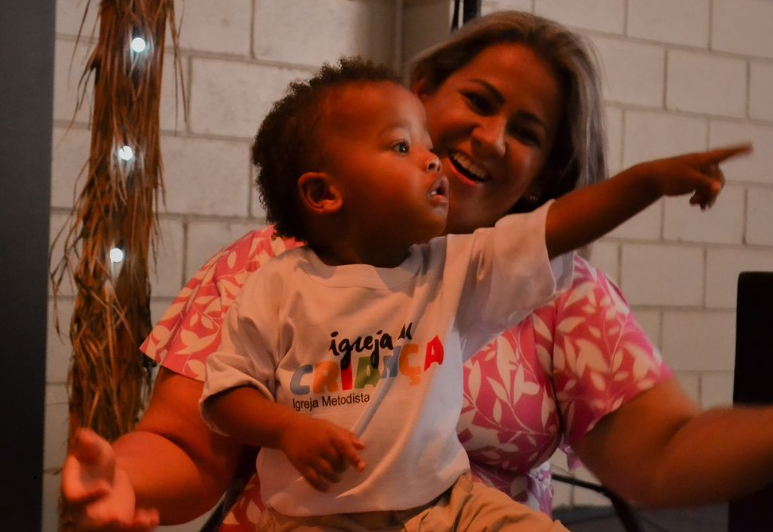
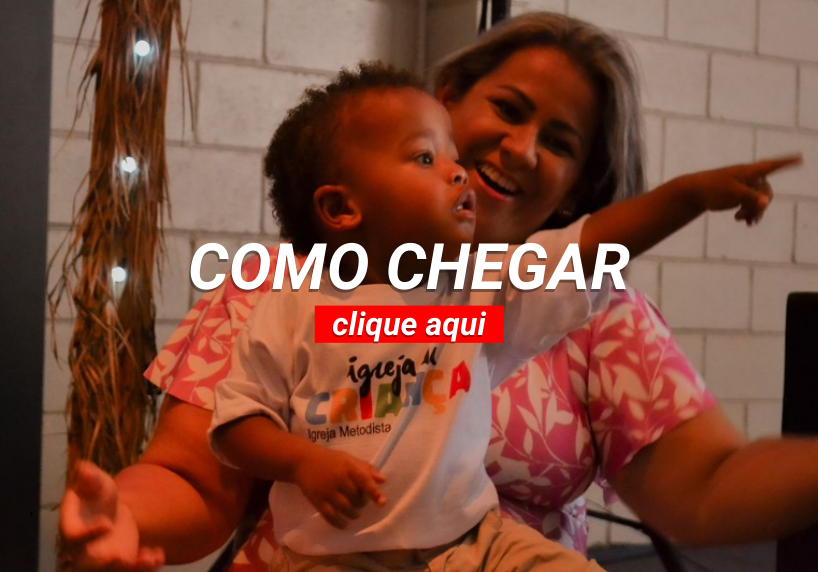
#feature 'adicionado lista de + links clicaveis'

diff --git a/metodista_app/lib/components/schedules_list.dart b/metodista_app/lib/components/schedules_list.dart
@@ -1,5 +1,10 @@
 import 'package:flutter/material.dart';
+import 'package:url_launcher/url_launcher.dart';
 
+final Uri _urlMaps = Uri.parse('https://goo.gl/maps/amwPCPCKP7KUAUJVA');
+final Uri _urlCultos = Uri.parse('https://www.youtube.com/@IMCamposEliseos/streams');
+final Uri _urlPower = Uri.parse('https://www.instagram.com/power.jvs');
+final Uri _urlKids = Uri.parse('https://www.instagram.com/igrejadacrianca.metodista/');
 class SchedulesList extends StatelessWidget {
   const SchedulesList({super.key});
 
@@ -9,41 +14,77 @@ class SchedulesList extends StatelessWidget {
       child: ListView(
         shrinkWrap: true,
         children: [
-          Container(
-            height: 200,
-            color: Colors.blue,
-            child: Image.asset(
-              'assets/images/cultos.png',
-              fit: BoxFit.cover,
+          GestureDetector(
+            onTap: () => {_LaunchCultosUrl()},
+            child: Container(
+              height: 200,
+              color: Colors.blue,
+              child: Image.asset(
+                'assets/images/cultos.png',
+                fit: BoxFit.cover,
+              ),
             ),
           ),
-          Container(
-            height: 200,
-            color: Colors.blue,
-            child: Image.asset(
-              'assets/images/juventude.jpeg',
-              fit: BoxFit.cover,
+          GestureDetector(
+            onTap: () => {_LaunchPowerUrl()},
+            child: Container(
+              height: 200,
+              color: Colors.blue,
+              child: Image.asset(
+                'assets/images/juventude.png',
+                fit: BoxFit.cover,
+              ),
             ),
           ),
-          Container(
-            height: 200,
-            color: Colors.blue,
-            child: Image.asset(
-              'assets/images/kids.png',
-              fit: BoxFit.cover,
+          GestureDetector(
+            onTap: () => {_LaunchKidsUrl()},
+            child: Container(
+              height: 200,
+              color: Colors.blue,
+              child: Image.asset(
+                'assets/images/kids.png',
+                fit: BoxFit.cover,
+              ),
             ),
           ),
-          Container(
-            height: 200,
-            color: Colors.blue,
-            child: Image.asset(
-              'assets/images/bebe-apontando.png',
-              fit: BoxFit.cover,
+          GestureDetector(
+            onTap: () => {_LaunchMapsUrl()},
+            child: Container(
+              height: 200,
+              color: Colors.blue,
+              child: Image.asset(
+                'assets/images/bebe-apontando.png',
+                fit: BoxFit.cover,
+              ),
             ),
           ),
         ],
         scrollDirection: Axis.vertical,
       ),
     );
+  }
+}
+
+Future<void> _LaunchMapsUrl() async {
+  if (!await launchUrl(_urlMaps)) {
+    throw Exception('Não é possível abrir $_urlMaps');
+  }
+}
+
+Future<void> _LaunchCultosUrl() async {
+  if (!await launchUrl(_urlCultos)) {
+    throw Exception('Não é possível abrir $_urlCultos');
+  }
+}
+
+Future<void> _LaunchPowerUrl() async {
+  if (!await launchUrl(_urlPower)) {
+    throw Exception('Não é possível abrir $_urlPower');
+  }
+}
+
+Future<void> _LaunchKidsUrl() async {
+  if (!await launchUrl(_urlKids)) {
+    throw Exception('Não é possível abrir $_urlKids');
   }
 }

diff --git a/metodista_app/lib/main.dart b/metodista_app/lib/main.dart
@@ -1,6 +1,7 @@
 import 'dart:ui';
 import 'package:flutter/material.dart';
 import 'package:metodista_app/components/schedules_list.dart';
+import 'package:url_launcher/url_launcher.dart';
 
 void main() => runApp(MetodistaApp());
 
@@ -103,6 +104,7 @@ class HomePage extends StatelessWidget {
       ),
       body: SingleChildScrollView(
         child: Column(
+          mainAxisAlignment: MainAxisAlignment.center,
           crossAxisAlignment: CrossAxisAlignment.stretch,
           children: [
             Container(

diff --git a/metodista_app/macos/Flutter/GeneratedPluginRegistrant.swift b/metodista_app/macos/Flutter/GeneratedPluginRegistrant.swift
@@ -5,6 +5,8 @@
 import FlutterMacOS
 import Foundation
 
+import url_launcher_macos
 
 func RegisterGeneratedPlugins(registry: FlutterPluginRegistry) {
+  UrlLauncherPlugin.register(with: registry.registrar(forPlugin: "UrlLauncherPlugin"))
 }

diff --git a/metodista_app/linux/flutter/generated_plugin_registrant.cc b/metodista_app/linux/flutter/generated_plugin_registrant.cc
@@ -6,6 +6,10 @@
 
 #include "generated_plugin_registrant.h"
 
+#include <url_launcher_linux/url_launcher_plugin.h>
 
 void fl_register_plugins(FlPluginRegistry* registry) {
+  g_autoptr(FlPluginRegistrar) url_launcher_linux_registrar =
+      fl_plugin_registry_get_registrar_for_plugin(registry, "UrlLauncherPlugin");
+  url_launcher_plugin_register_with_registrar(url_launcher_linux_registrar);
 }

diff --git a/metodista_app/windows/flutter/generated_plugin_registrant.cc b/metodista_app/windows/flutter/generated_plugin_registrant.cc
@@ -6,6 +6,9 @@
 
 #include "generated_plugin_registrant.h"
 
+#include <url_launcher_windows/url_launcher_windows.h>
 
 void RegisterPlugins(flutter::PluginRegistry* registry) {
+  UrlLauncherWindowsRegisterWithRegistrar(
+      registry->GetRegistrarForPlugin("UrlLauncherWindows"));
 }
